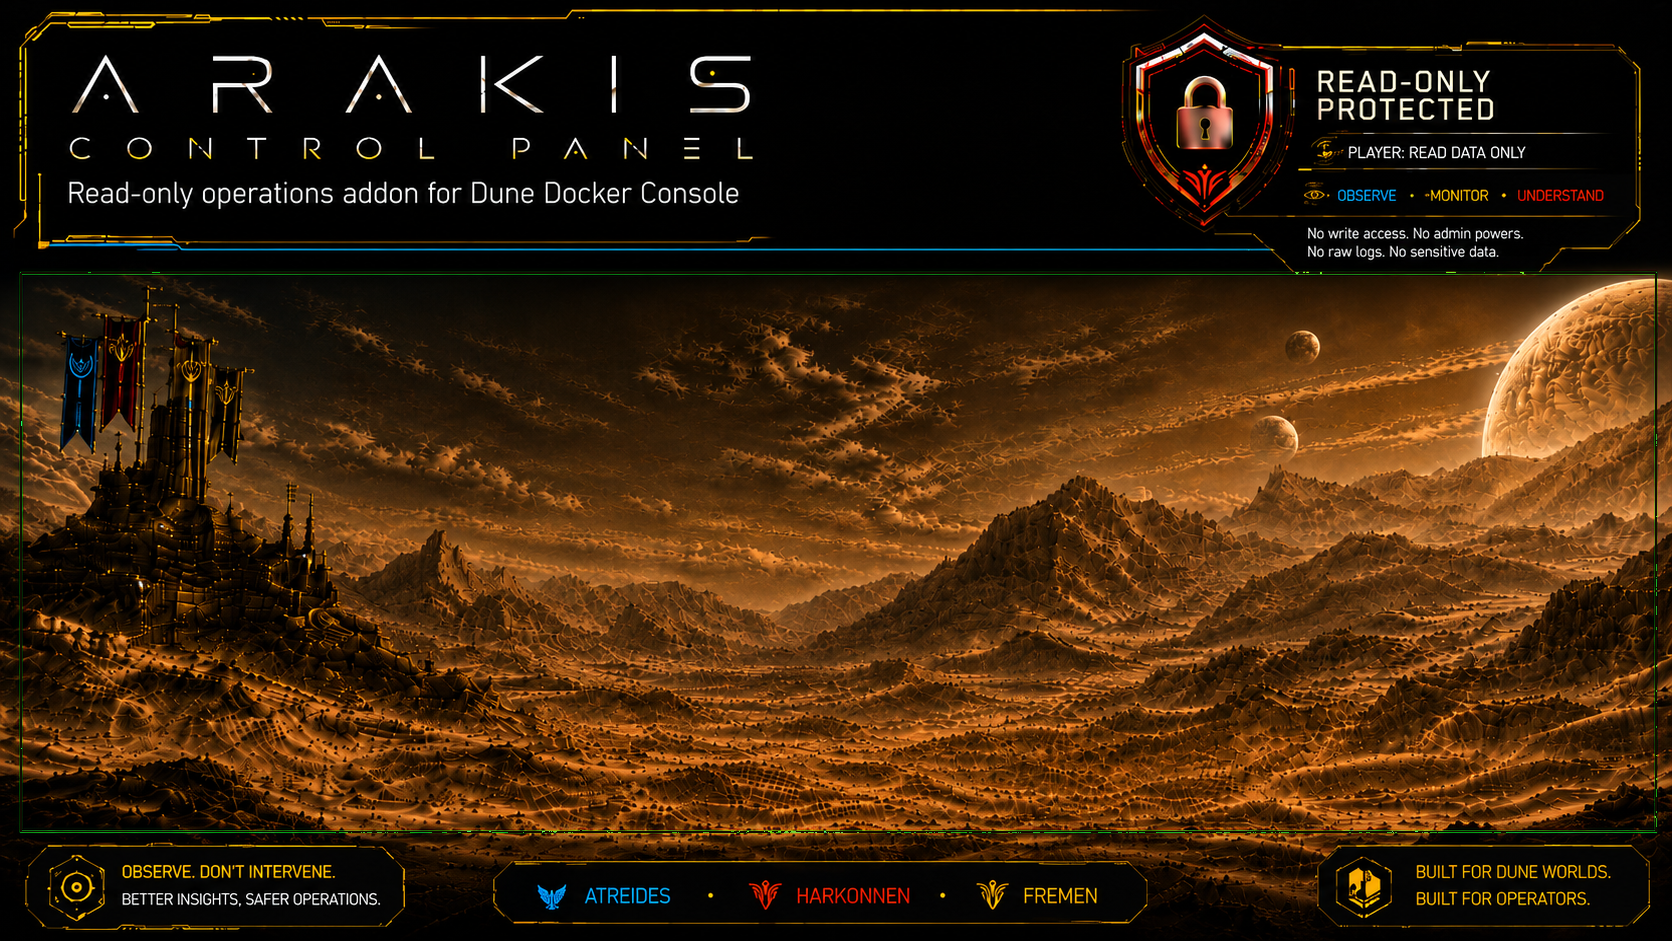
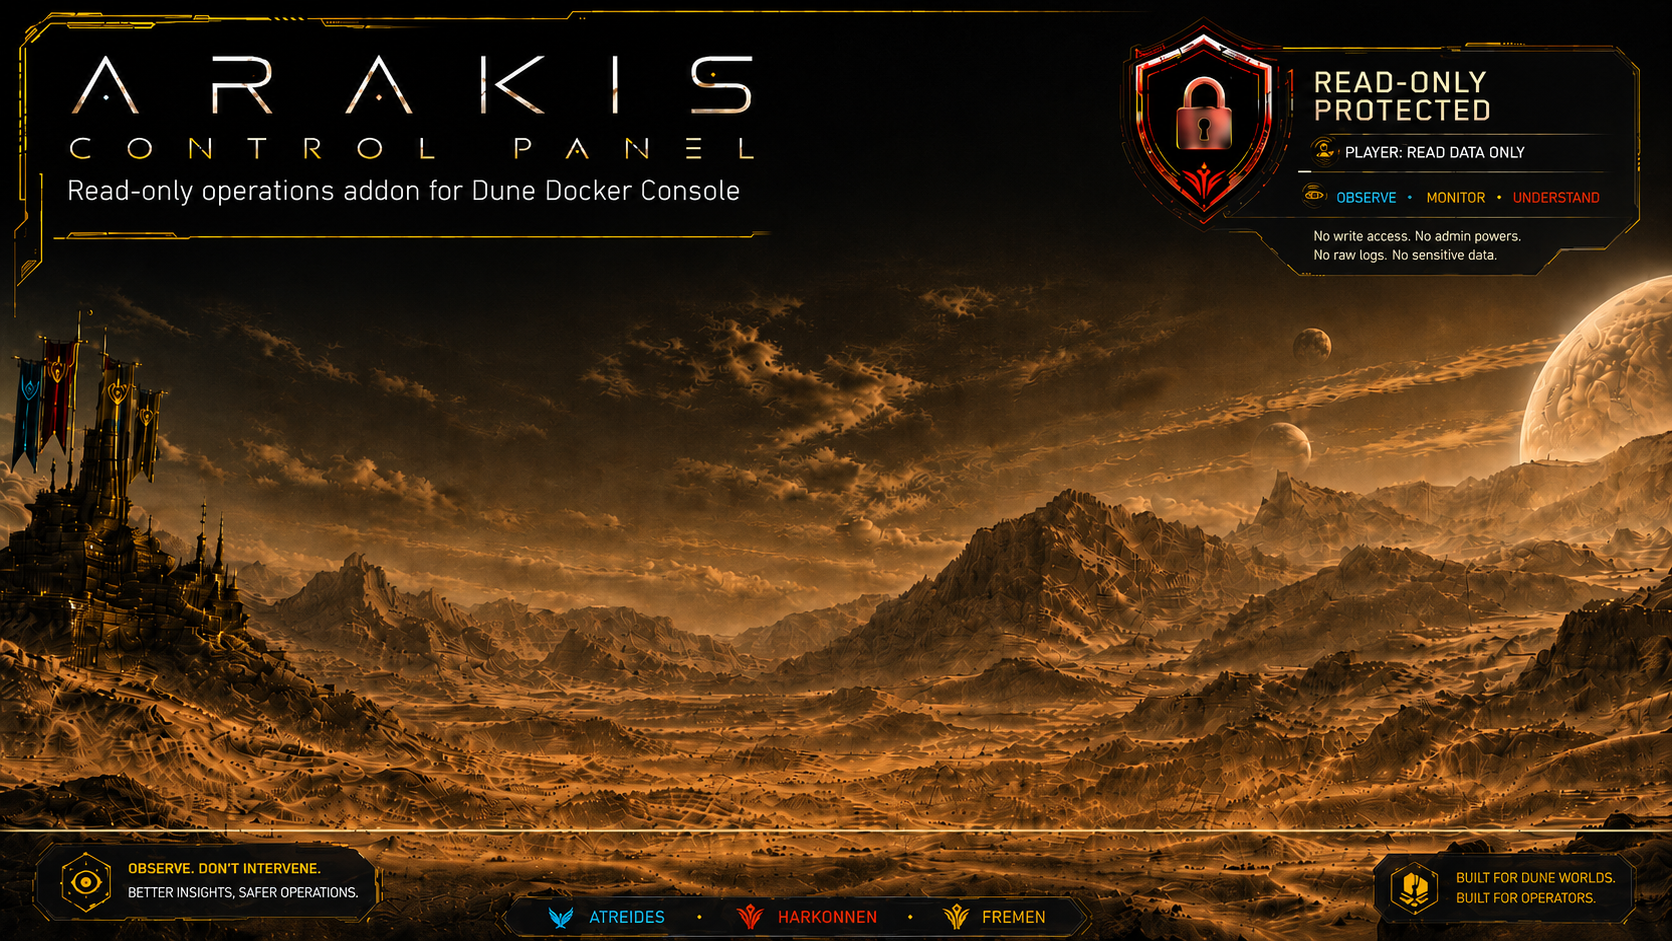
Complete rewrite: solid card panel in green box zone with high-contrast white text
- Dark card panel (85% opaque) covers exactly the content zone (y=200-590)
- Gold border around panel for visual definition
- White text on dark background — always readable
- Background image visible around the card edges
- Clean hierarchy: title row, stats, separator, maps, footer

diff --git a/scripts/generate-status-card.js b/scripts/generate-status-card.js
@@ -2,7 +2,6 @@ import { createCanvas, GlobalFonts, loadImage, Image } from "@napi-rs/canvas";
 import { join, dirname } from "node:path";
 import { fileURLToPath } from "node:url";
 
-// Register bundled fonts
 const __dirname = dirname(fileURLToPath(import.meta.url));
 const ASSETS = join(__dirname, "..", "assets");
 
@@ -15,204 +14,149 @@ try {
   GlobalFonts.registerFromPath("/usr/share/fonts/truetype/ubuntu/Ubuntu-B.ttf", "Ubuntu Bold");
 }
 
-// Cache the background image
 let BANNER = null;
 async function loadBanner() {
   if (!BANNER) {
-    try {
-      BANNER = await loadImage(join(ASSETS, "status-bg.png"));
-    } catch {
-      try {
-        BANNER = await loadImage(join(ASSETS, "bot-banner.png"));
-      } catch {
-        BANNER = new Image();
-      }
-    }
+    try { BANNER = await loadImage(join(ASSETS, "status-bg.png")); }
+    catch { BANNER = new Image(); }
   }
   return BANNER;
 }
 
-// Dune palette — warm amber/desert, tuned for the new background
-const COLORS = {
-  bg: "#0c0a06",
-  cardBg: "rgba(28,21,16,0.70)",
-  accent: "#a06839",
-  text: "#ecd5b5",
-  muted: "#b8956e",
-  success: "#6eeb83",
-  warning: "#fbbf24",
-  error: "#f87171",
-  atreides: "#4ade80",
-  harkonnen: "#f87171",
-  fremen: "#fbbf24",
-  border: "#4a321c",
-  fieldBg: "rgba(255,255,255,0.05)",
-};
-
 const W = 1200, H = 640;
-const PAD = 36;
-const TOP = 195; // Green box in original maps to y≈200 in canvas
+const PAD = 40;
+const CARD_TOP = 200, CARD_BOT = 590;
 
 export async function generateStatusCard({ title, overall, region, mode, population, maps = [], services = 0, latency = 0, quote = "" } = {}) {
   const canvas = createCanvas(W, H);
   const ctx = canvas.getContext("2d");
 
-  // Banner background — fills the entire canvas, no card body rectangle
-  const banner = await loadBanner();
-  if (banner.width > 0) {
-    const scale = Math.max(W / banner.width, H / banner.height);
-    const sw = banner.width * scale;
-    const sh = banner.height * scale;
-    ctx.drawImage(banner, (W - sw) / 2, (H - sh) / 2, sw, sh);
-
-    // Gradient overlay — heavier at top, fading to bottom for readability
-    const grad = ctx.createLinearGradient(0, 0, 0, H);
-    grad.addColorStop(0, "rgba(0,0,0,0.25)");
-    grad.addColorStop(0.3, "rgba(0,0,0,0.15)");
-    grad.addColorStop(0.7, "rgba(0,0,0,0.20)");
-    grad.addColorStop(1, "rgba(0,0,0,0.40)");
-    ctx.fillStyle = grad;
-    ctx.fillRect(0, 0, W, H);
-
-  } else {
-    ctx.fillStyle = COLORS.bg;
-    ctx.fillRect(0, 0, W, H);
+  // Background image fills canvas
+  const bg = await loadBanner();
+  if (bg.width > 0) {
+    const s = Math.max(W / bg.width, H / bg.height);
+    ctx.drawImage(bg, (W - bg.width * s) / 2, (H - bg.height * s) / 2, bg.width * s, bg.height * s);
   }
+  ctx.fillStyle = "rgba(0,0,0,0.35)";
+  ctx.fillRect(0, 0, W, H);
 
-  // No card body — text sits directly on the background
-  // Text shadow helper for readability against the varying background
-  function drawText(text, x, y, font, color, shadow = true) {
-    ctx.font = font;
-    if (shadow) {
-      ctx.fillStyle = "rgba(0,0,0,0.6)";
-      ctx.fillText(text, x + 2, y + 2);
-    }
-    ctx.fillStyle = color;
-    ctx.fillText(text, x, y);
-  }
+  // ── Card panel inside the green box zone ──
+  const cx = PAD, cy = CARD_TOP, cw = W - PAD * 2, ch = CARD_BOT - CARD_TOP;
+  ctx.fillStyle = "rgba(15,12,8,0.85)";
+  roundRect(ctx, cx, cy, cw, ch, 12, true, false);
+  ctx.strokeStyle = "rgba(160,104,57,0.4)";
+  ctx.lineWidth = 1;
+  roundRect(ctx, cx, cy, cw, ch, 12, false, true);
 
-  function drawTextBold(text, x, y, font, color) {
-    drawText(text, x, y, font, color, true);
-  }
+  // ── Title row ──
+  ctx.fillStyle = "#a06839";
+  ctx.font = "32px \"Dune Rise\"";
+  ctx.fillText(title || "Server", cx + 24, cy + 44);
 
-  // Accent bar at top
-  ctx.fillStyle = COLORS.accent;
-  roundRect(ctx, PAD + 10, PAD + 10, W - 2 * (PAD + 10), 3, 8, true, false);
+  ctx.fillStyle = "#ffffff";
+  ctx.font = "bold 16px \"Ubuntu Bold\"";
+  const badge = overall || "UNKNOWN";
+  const bw = ctx.measureText(badge).width + 24;
+  const bc = overall === "READY" ? "#6eeb83" : overall === "ISSUE" ? "#fbbf24" : "#f87171";
+  ctx.fillStyle = bc;
+  roundRect(ctx, cx + cw - 24 - bw, cy + 20, bw, 26, 13, true, false);
+  ctx.fillStyle = "#ffffff";
+  ctx.fillText(badge, cx + cw - 24 - bw / 2 - ctx.measureText(badge).width / 2, cy + 40);
 
-  // Title — Dune Rise, amber accent color
-  drawTextBold(`${title || "Server Status"}`, PAD + 30, TOP + 22, "34px Dune Rise", COLORS.accent);
-
-  // Status badge
-  const badgeColor = overall === "READY" ? COLORS.success : overall === "ISSUE" ? COLORS.warning : COLORS.error;
-  ctx.fillStyle = badgeColor;
-  const badgeText = overall || "UNKNOWN";
-  const badgeW = ctx.measureText(badgeText).width + 28;
-  roundRect(ctx, W - PAD - 30 - badgeW, TOP - 8, badgeW, 32, 16, true, false);
-  drawText(badgeText, W - PAD - 30 - badgeW / 2 - ctx.measureText(badgeText).width / 2, TOP + 16, "bold 16px Ubuntu Bold", "#ffffff", false);
-
-  // Stats row — icons with data
+  // ── Stats row ──
   const stats = [
-    { icon: "👥", label: "Players", value: population || "—" },
-    { icon: "🌎", label: "Region", value: region || "—" },
-    { icon: "🎮", label: "Mode", value: mode || "—" },
-    { icon: "📡", label: "Latency", value: latency ? `${latency}ms` : "—" },
-    { icon: "⚙", label: "Services", value: String(services) },
+    { label: "PLAYERS", value: population || "—" },
+    { label: "REGION", value: region || "—" },
+    { label: "MODE", value: mode || "—" },
+    { label: "LATENCY", value: latency ? `${latency}ms` : "—" },
+    { label: "SERVICES", value: String(services) },
   ];
-
-  const statY = TOP + 60;
-  const statW = (W - PAD * 2 - 60) / stats.length;
-
+  const statY = cy + 74;
+  const statW = cw / stats.length;
   stats.forEach((s, i) => {
-    const sx = PAD + 30 + i * statW;
-    ctx.font = "28px Ubuntu Bold";
-    drawText(s.icon, sx, statY + 28, "28px Ubuntu Bold", COLORS.text, false);
-    drawText(s.label, sx + 36, statY + 16, "bold 13px Ubuntu Bold", COLORS.muted);
-    drawTextBold(s.value, sx + 36, statY + 42, "19px Dune Rise", COLORS.text);
+    const sx = cx + 12 + i * statW;
+    ctx.fillStyle = "#b8956e";
+    ctx.font = "bold 11px \"Ubuntu Bold\"";
+    ctx.fillText(s.label, sx, statY + 14);
+    ctx.fillStyle = "#ffffff";
+    ctx.font = "22px \"Dune Rise\"";
+    ctx.fillText(s.value, sx, statY + 42);
   });
 
-  // Separator line
-  ctx.strokeStyle = COLORS.border;
+  // ── Separator ──
+  ctx.strokeStyle = "rgba(160,104,57,0.3)";
   ctx.lineWidth = 1;
   ctx.beginPath();
-  ctx.moveTo(PAD + 20, statY + 80);
-  ctx.lineTo(W - PAD - 20, statY + 80);
+  ctx.moveTo(cx + 20, statY + 62);
+  ctx.lineTo(cx + cw - 20, statY + 62);
   ctx.stroke();
 
-  // Maps section header
-  let mapY = statY + 110;
-  drawText("ACTIVE MAPS", PAD + 30, mapY - 12, "bold 12px Ubuntu Bold", COLORS.accent);
-  mapY += 10;
+  // ── Maps ──
+  const mapY = statY + 80;
+  ctx.fillStyle = "#a06839";
+  ctx.font = "bold 11px \"Ubuntu Bold\"";
+  ctx.fillText("ACTIVE MAPS", cx + 24, mapY + 14);
 
-  const mapBarH = 34;
-  const mapGap = 6;
-  const maxMaps = Math.min(maps.length, 5);
-  const factionColors = [COLORS.atreides, COLORS.harkonnen, COLORS.fremen];
+  const mh = 34, mg = 6, maxM = Math.min(maps.length, 4);
+  const fcs = ["#4ade80", "#f87171", "#fbbf24", "#a06839"];
+  maps.slice(0, maxM).forEach((m, i) => {
+    const my = mapY + 24 + i * (mh + mg);
+    ctx.fillStyle = "rgba(255,255,255,0.05)";
+    roundRect(ctx, cx + 20, my, cw - 40, mh, 6, true, false);
 
-  maps.slice(0, maxMaps).forEach((m, i) => {
-    const my = mapY + i * (mapBarH + mapGap);
-    const barColor = factionColors[i % 3];
+    ctx.fillStyle = "#ffffff";
+    ctx.font = "16px \"Dune Rise\"";
+    ctx.fillText(m.name || "?", cx + 42, my + 24);
 
-    ctx.fillStyle = COLORS.fieldBg;
-    roundRect(ctx, PAD + 20, my, W - PAD * 2 - 40, mapBarH, 6, true, false);
+    if (m.uptime) {
+      ctx.fillStyle = "#b8956e";
+      ctx.font = "12px Ubuntu";
+      ctx.fillText(m.uptime, cx + 240, my + 24);
+    }
 
-    drawTextBold(`${m.name || "?"}`, PAD + 42, my + 26, "15px Dune Rise", COLORS.text);
-    if (m.uptime) drawText(m.uptime, PAD + 260, my + 26, "13px Ubuntu", COLORS.muted);
-
-    const stateText = m.state || m.status || "UNKNOWN";
-    const sw = ctx.measureText(stateText).width + 20;
-    const sx = W - PAD - 60 - sw;
-    ctx.fillStyle = barColor;
-    roundRect(ctx, sx, my + 8, sw, 22, 11, true, false);
-    drawText(stateText, sx + 10, my + 24, "bold 12px Ubuntu Bold", "#ffffff", false);
+    const st = m.state || m.status || "?";
+    const sw = ctx.measureText(st).width + 18;
+    ctx.fillStyle = fcs[i % fcs.length];
+    roundRect(ctx, cx + cw - 42 - sw, my + 6, sw, 22, 11, true, false);
+    ctx.fillStyle = "#ffffff";
+    ctx.font = "bold 11px \"Ubuntu Bold\"";
+    ctx.fillText(st, cx + cw - 42 - sw / 2 - ctx.measureText(st).width / 2, my + 22);
   });
 
-  // Footer
-  const footerY = 590;
-  drawText(`Thumper · ${quote || "The spice must flow."}`, PAD + 30, footerY, "12px Ubuntu", COLORS.muted);
+  // ── Footer ──
+  ctx.fillStyle = "#b8956e";
+  ctx.font = "12px Ubuntu";
+  ctx.fillText(`Thumper · ${quote || "The spice must flow."}`, cx + 24, H - 30);
 
   return canvas;
 }
 
-function roundRect(ctx, x, y, w, h, r = 0, fill = false, stroke = false) {
-  if (typeof r === "object") {
-    r = { tl: r.tl || 0, tr: r.tr || 0, br: r.br || 0, bl: r.bl || 0 };
-  } else {
-    r = { tl: r, tr: r, br: r, bl: r };
-  }
+function roundRect(ctx, x, y, w, h, r, fill, stroke) {
+  if (typeof r === "object") r = r.tl || r.tr || r.br || r.bl || 0;
   ctx.beginPath();
-  ctx.moveTo(x + r.tl, y);
-  ctx.lineTo(x + w - r.tr, y);
-  ctx.quadraticCurveTo(x + w, y, x + w, y + r.tr);
-  ctx.lineTo(x + w, y + h - r.br);
-  ctx.quadraticCurveTo(x + w, y + h, x + w - r.br, y + h);
-  ctx.lineTo(x + r.bl, y + h);
-  ctx.quadraticCurveTo(x, y + h, x, y + h - r.bl);
-  ctx.lineTo(x, y + r.tl);
-  ctx.quadraticCurveTo(x, y, x + r.tl, y);
+  ctx.moveTo(x + r, y);
+  ctx.lineTo(x + w - r, y);
+  ctx.quadraticCurveTo(x + w, y, x + w, y + r);
+  ctx.lineTo(x + w, y + h - r);
+  ctx.quadraticCurveTo(x + w, y + h, x + w - r, y + h);
+  ctx.lineTo(x + r, y + h);
+  ctx.quadraticCurveTo(x, y + h, x, y + h - r);
+  ctx.lineTo(x, y + r);
+  ctx.quadraticCurveTo(x, y, x + r, y);
   ctx.closePath();
   if (fill) ctx.fill();
   if (stroke) ctx.stroke();
 }
 
-// Quick test if run directly
 import { writeFileSync } from "node:fs";
 if (process.argv[1] && fileURLToPath(import.meta.url) === process.argv[1]) {
-  const canvas = await generateStatusCard({
-    title: "Tabr-Tau",
-    overall: "READY",
-    region: "North America",
-    mode: "public",
-    population: "0/60",
-    maps: [
-      { name: "Survival_1", state: "READY", uptime: "Up 18 hours" },
-      { name: "Overmap", state: "READY", uptime: "Up 18 hours" },
-      { name: "SH_Arrakeen", state: "INACTIVE" },
-      { name: "SH_HarkoVillage", state: "INACTIVE" },
-    ],
-    services: 10,
-    latency: 12,
-    quote: "The spice must flow."
+  const c = await generateStatusCard({
+    title: "Tabr-Tau", overall: "READY", region: "North America", mode: "public",
+    population: "0/60", maps: [
+      { name: "Survival_1", state: "READY", uptime: "Up 18h" },
+      { name: "Overmap", state: "READY", uptime: "Up 18h" },
+    ], services: 10, latency: 12, quote: "The spice must flow."
   });
-  writeFileSync("/tmp/status-card-test.png", canvas.toBuffer("image/png"));
-  console.log("Test card saved to /tmp/status-card-test.png");
+  writeFileSync("/tmp/status-card-test.png", c.toBuffer("image/png"));
+  console.log("Test card saved");
 }
